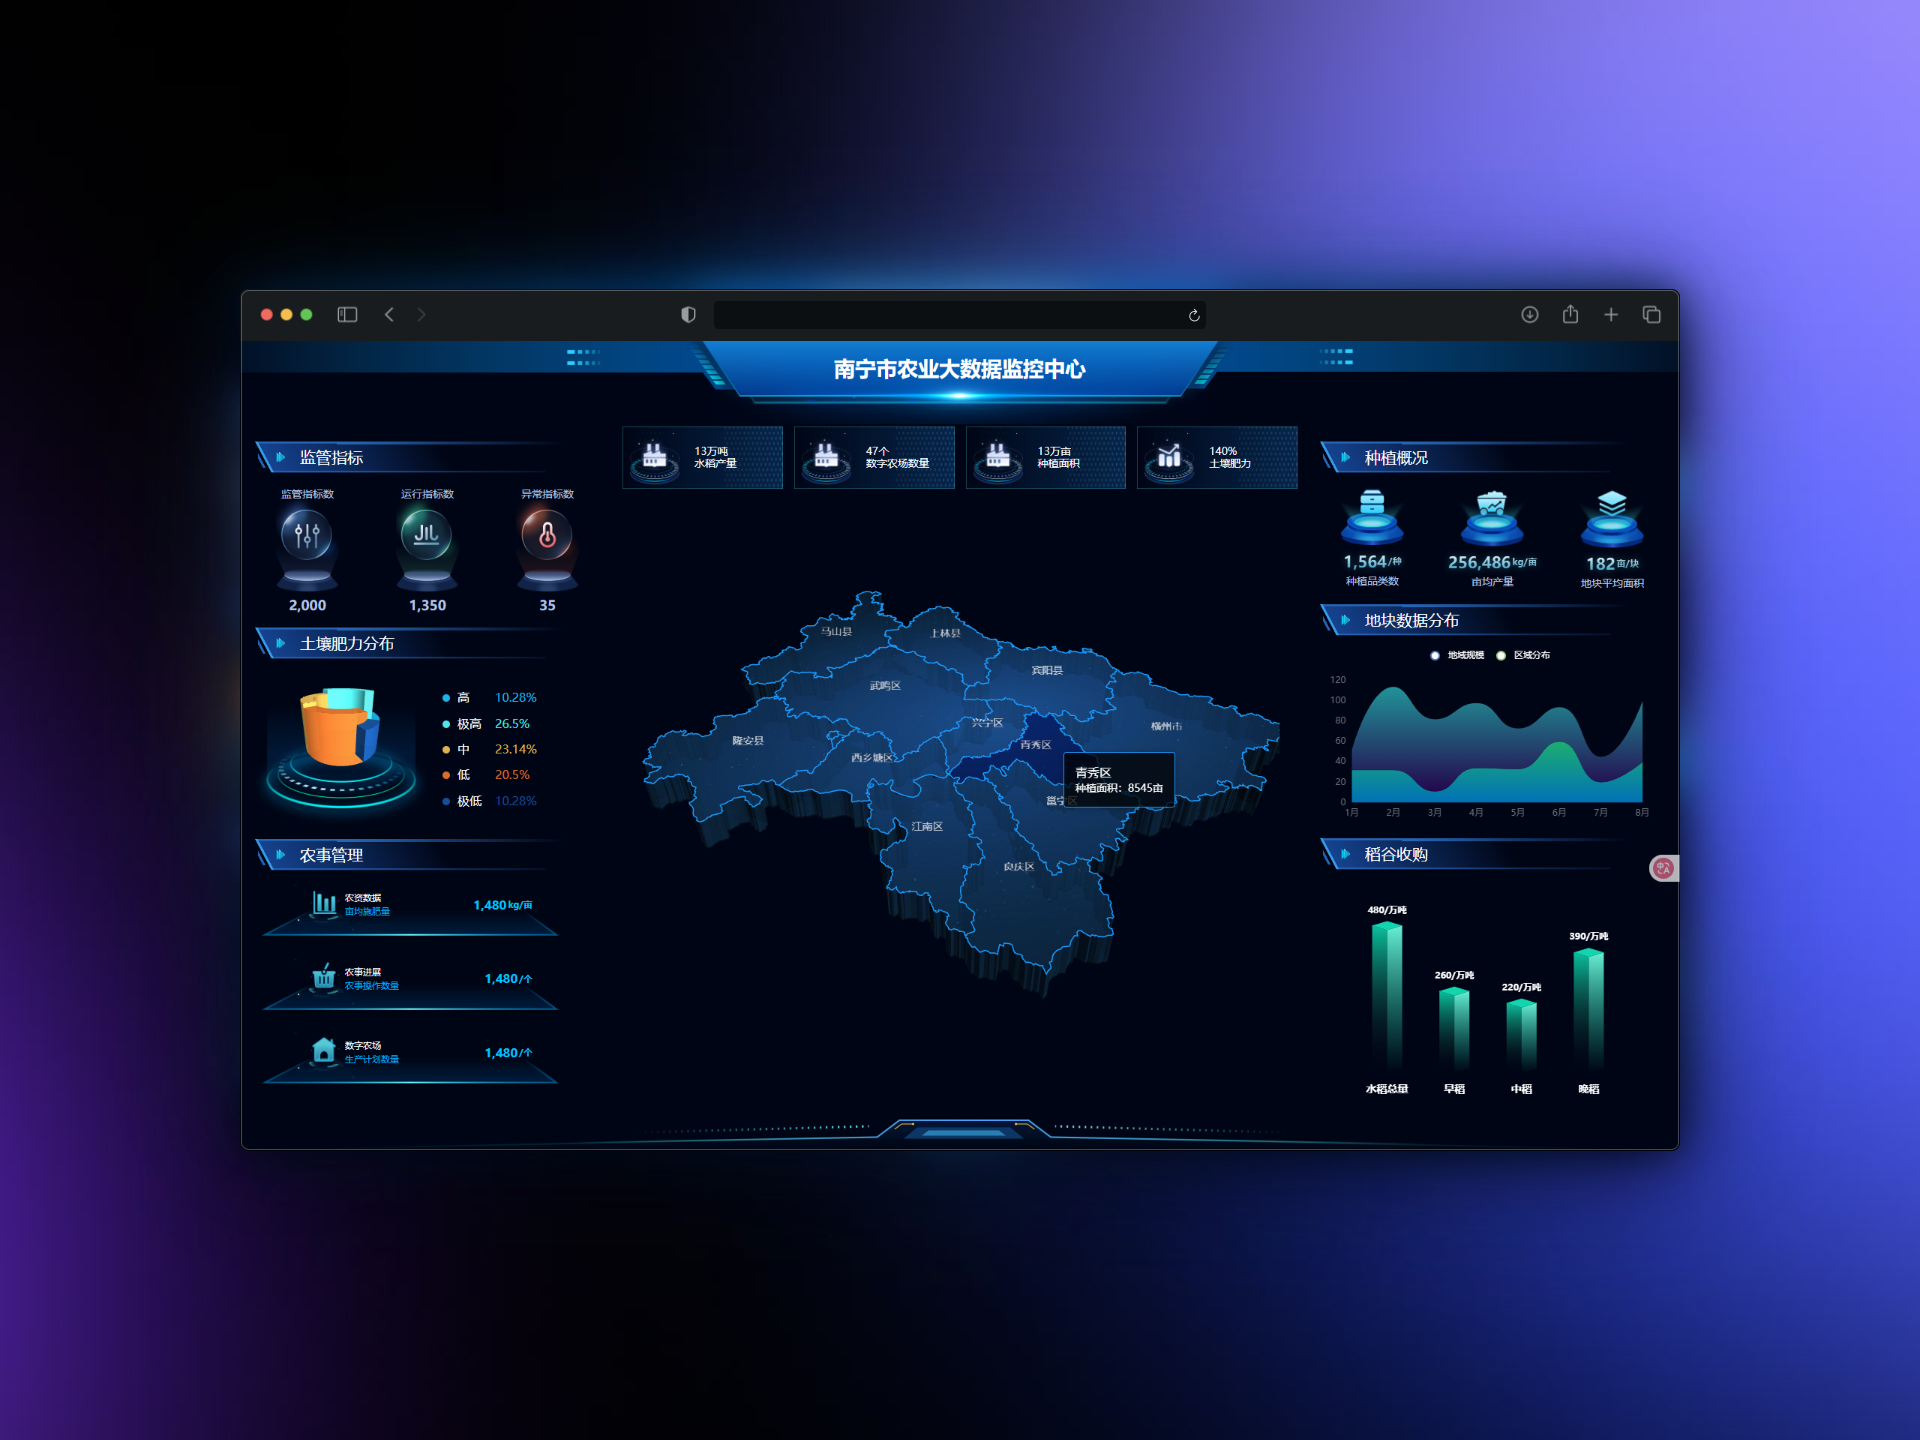
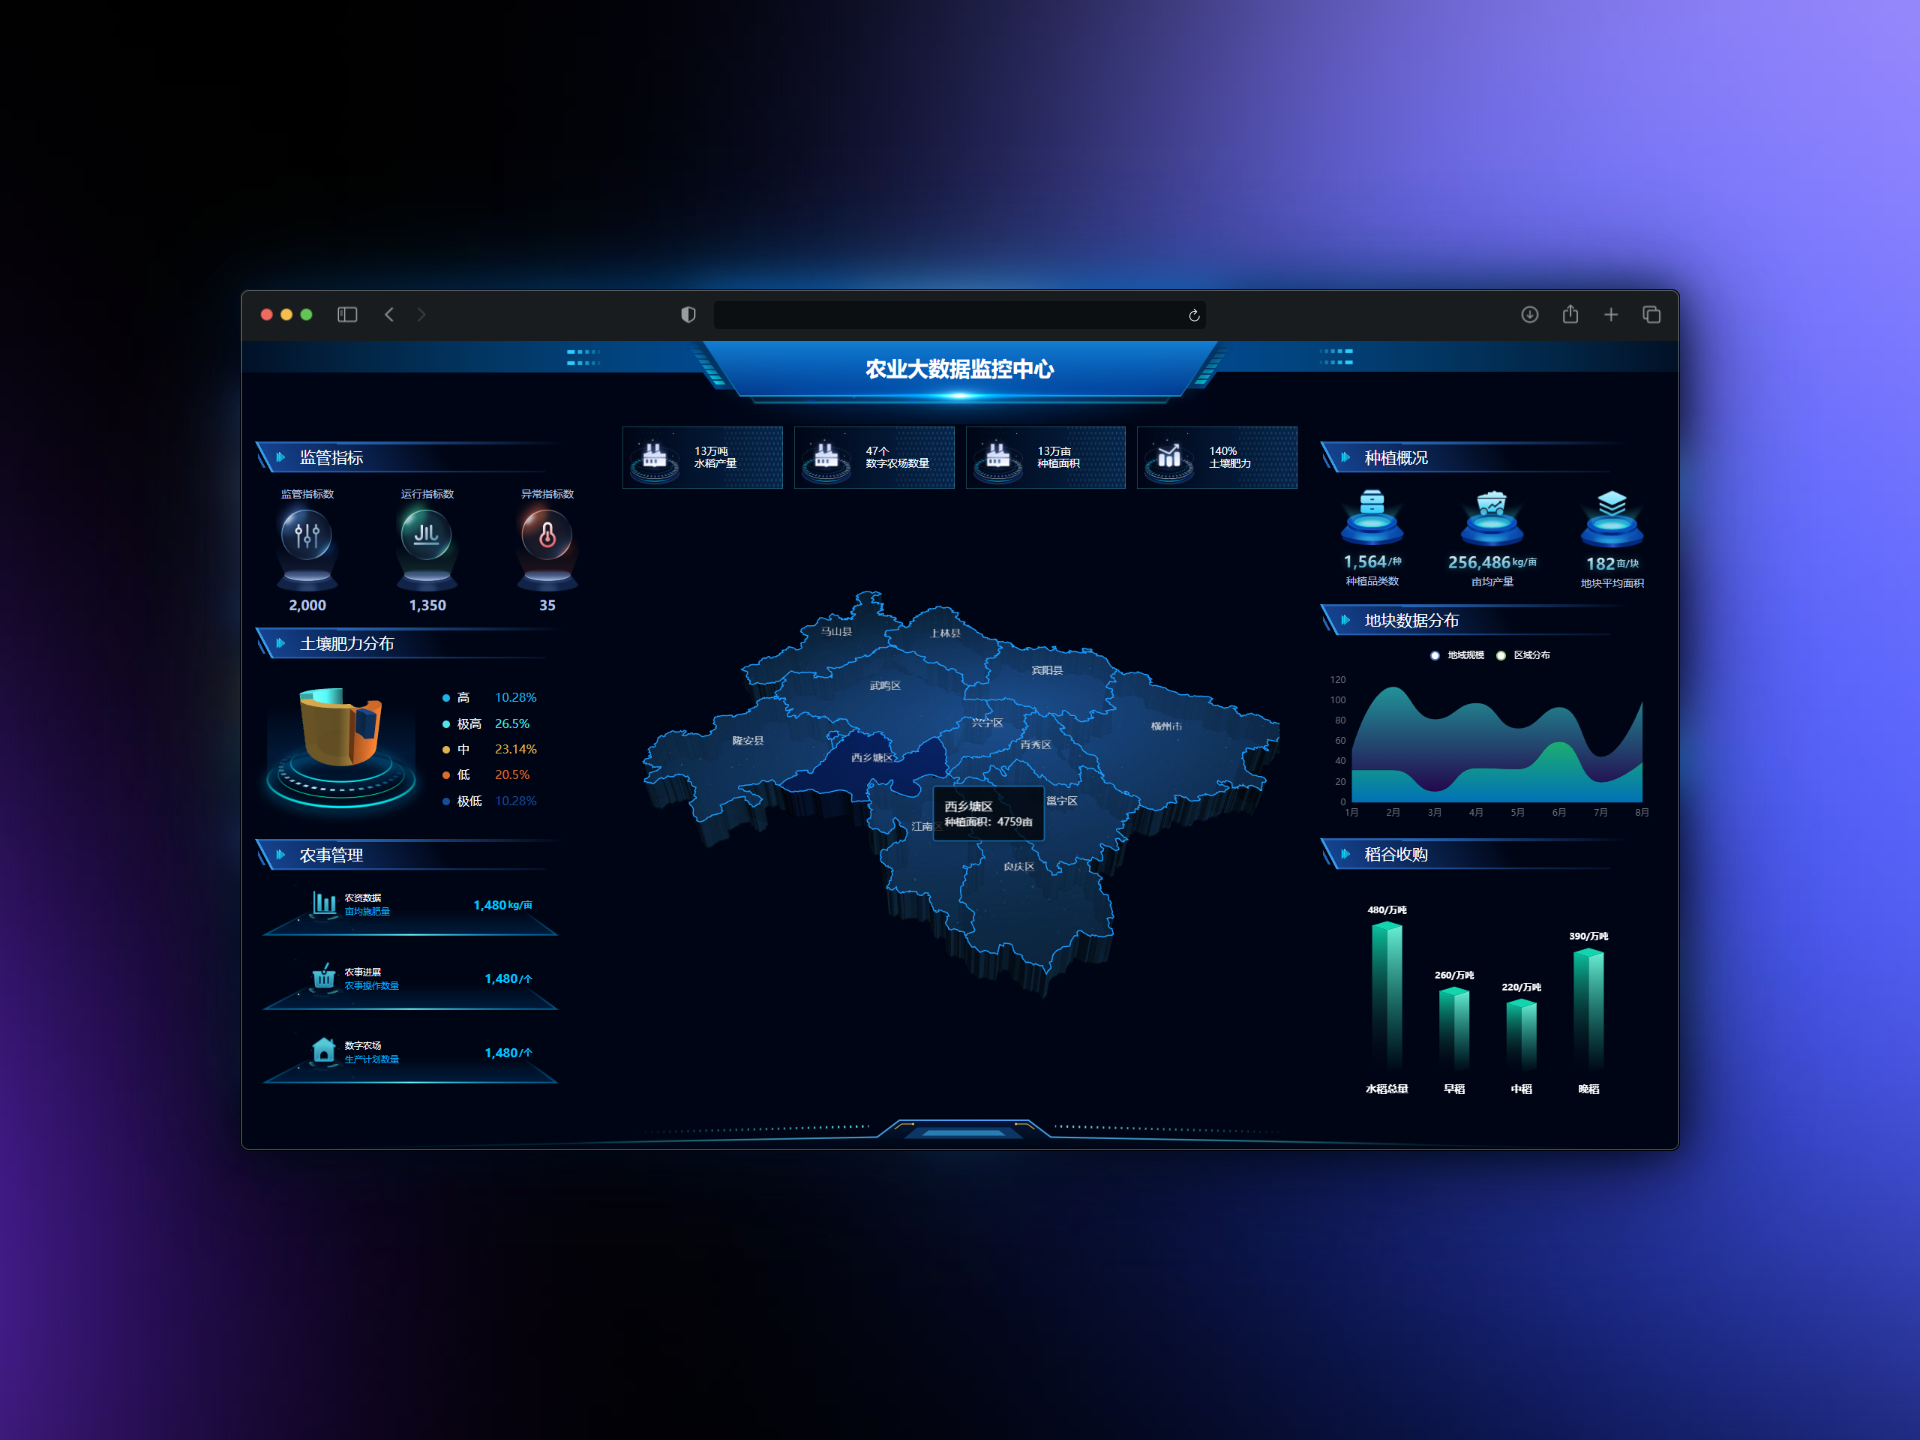
update title

diff --git a/src/views/dashboard/index.vue b/src/views/dashboard/index.vue
@@ -16,7 +16,7 @@ import MainData from "./components/MainData.vue";
       <!-- 顶部 -->
       <div class="header">
         <img src="@/assets/images/header.png" class="header-image" />
-        <div class="header-title">南宁市农业大数据监控中心</div>
+        <div class="header-title">农业大数据监控中心</div>
       </div>
 
       <!-- 主要区域容器 -->
